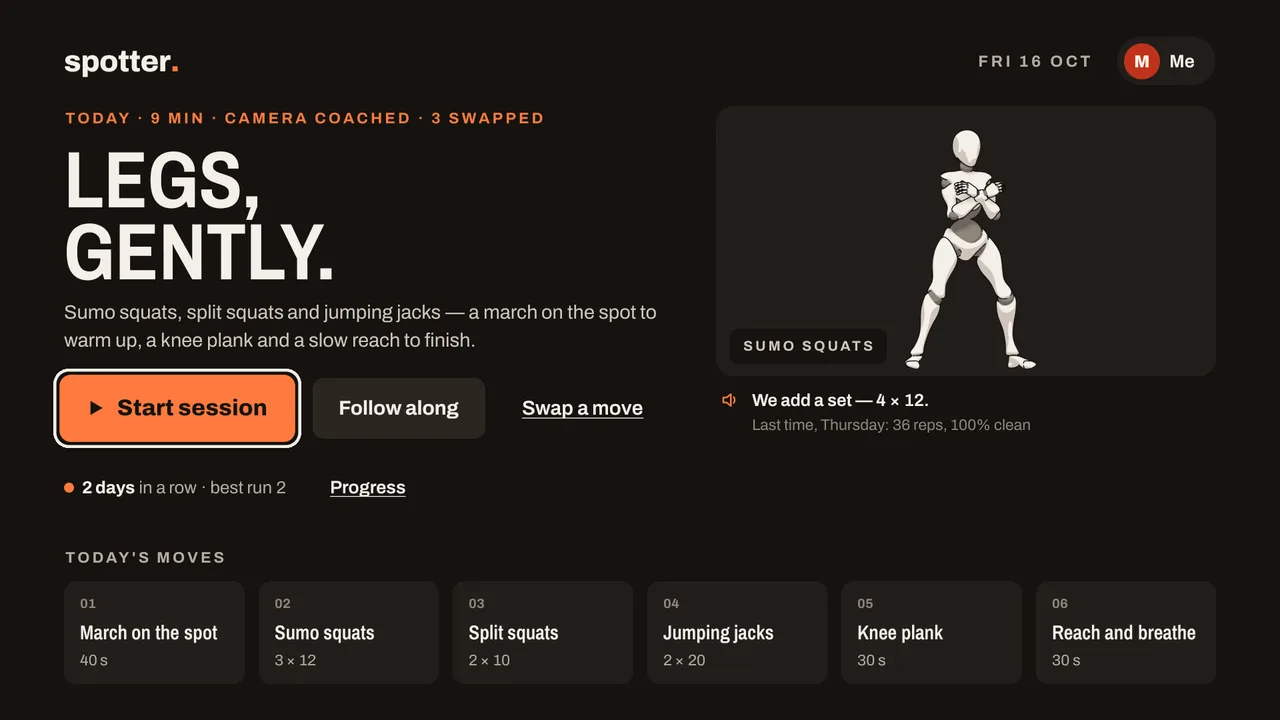
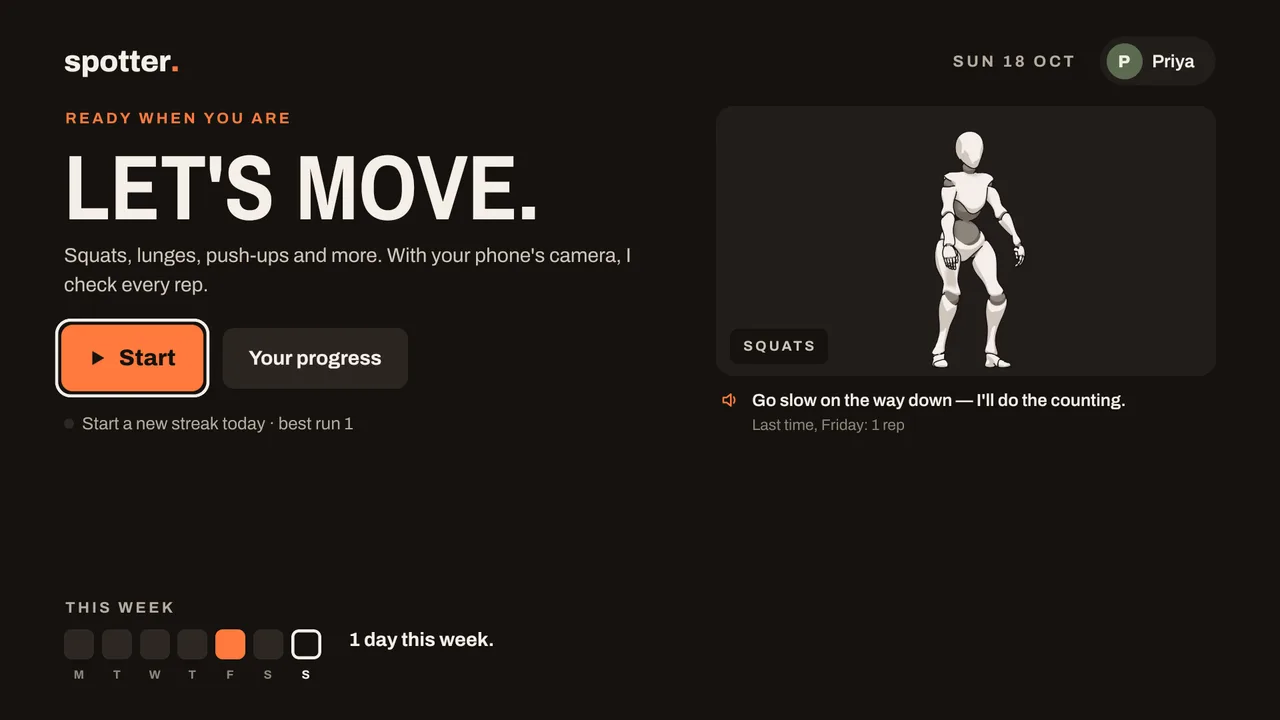
Website: pick one move at a time, no warm-ups, new screenshots

diff --git a/index.html b/index.html
@@ -46,7 +46,7 @@
         </p>
       </div>
       <div class="shot">
-        <img src="assets/img/tv-home.webp" width="1280" height="720" alt="Spotter's home screen on a Fire TV: today's session, Legs, gently, with a 3D trainer and the six moves of the day.">
+        <img src="assets/img/tv-home.webp" width="1280" height="720" alt="Spotter's home screen on a Fire TV: Let's move, a Start button, the 3D trainer doing squats and the week so far.">
       </div>
     </div>
 
@@ -60,15 +60,15 @@
             <h3 style="margin-top:10px">Follow along</h3>
             <p>A 3D trainer shows every move on the TV and a voice guides you through it, on a steady beat.</p>
             <ul>
-              <li>Short sessions with a warm-up and a cool-down</li>
-              <li>Swap any move for a gentler one</li>
+              <li>Pick any move: squats, lunges, push-ups, bridges, planks and more</li>
+              <li>A gentler version of most moves, marked "easier"</li>
               <li>Streaks and progress for everyone in the house</li>
             </ul>
           </div>
           <div class="card highlight">
             <span class="tag">With your phone's camera</span>
-            <h3 style="margin-top:10px">Smart coaching</h3>
-            <p>Your phone watches your form and the TV shows you, live, with your skeleton drawn on top. It starts by itself as soon as your phone can see you, and goes straight into the moves the camera checks.</p>
+            <h3 style="margin-top:10px">Coach me on camera</h3>
+            <p>Pick one of twelve moves the camera checks. Your phone watches your form and the TV shows you, live, with your skeleton drawn on top. It starts by itself as soon as your phone can see you.</p>
             <ul>
               <li>Every rep judged: clean, counted with a note, or not counted — and why</li>
               <li>The TV speaks the count and the fix: "push your knees out" — your phone just watches</li>
@@ -91,7 +91,7 @@
           <div class="card">
             <div class="step-num">1</div>
             <h3 style="margin-top:12px">Start on the TV</h3>
-            <p>Open Spotter on your Fire TV, pick who's training, and start a session with the camera.</p>
+            <p>Open Spotter on your Fire TV, press Start, choose Coach me on camera and pick a move.</p>
           </div>
           <div class="card">
             <div class="step-num">2</div>
@@ -101,12 +101,12 @@
           <div class="card">
             <div class="step-num">3</div>
             <h3 style="margin-top:12px">Set it down and train</h3>
-            <p>Prop the phone up and step back until the TV can see you. It counts down from 5 and starts — the coach takes it from there.</p>
+            <p>Prop the phone up and step back until the TV can see you. It counts down from 5 and starts. When you're done, pick another move; the phone stays linked.</p>
           </div>
         </div>
         <div class="figure-row">
           <figure class="shot"><img src="assets/img/tv-pair.webp" width="1280" height="720" loading="lazy" alt="The pairing screen: a QR code, the code to type, and a check that head, hips, knees and feet are in view."></figure>
-          <figure class="shot"><img src="assets/img/tv-follow.webp" width="1280" height="720" loading="lazy" alt="Follow along: the 3D trainer marches on the spot while a timer counts down."></figure>
+          <figure class="shot"><img src="assets/img/tv-pick.webp" width="1280" height="720" loading="lazy" alt="Pick a move: squats, lunges, jumping jacks, push-ups, glutes and planks in sections, with the 3D trainer showing the one in focus."></figure>
         </div>
       </div>
     </section>
@@ -133,7 +133,7 @@
         <div class="grid grid-3">
           <div class="card"><h3>On your phone</h3><p>Body tracking runs in your phone's browser. Your phone sends the TV your rep counts and the positions of a few body points.</p></div>
           <div class="card"><h3>Phone to TV</h3><p>The live picture goes straight from your phone to your TV over your home Wi-Fi. It is never sent to or stored on our servers.</p></div>
-          <div class="card"><h3>On your TV</h3><p>Profiles, history and swaps are kept on the TV. No account, no sign-in. <a href="privacy.html">Read the privacy policy</a>.</p></div>
+          <div class="card"><h3>On your TV</h3><p>Profiles and history are kept on the TV. No account, no sign-in. <a href="privacy.html">Read the privacy policy</a>.</p></div>
         </div>
       </div>
     </section>

diff --git a/privacy.html b/privacy.html
@@ -24,14 +24,14 @@
     <article class="legal">
       <p class="kicker">Privacy policy</p>
       <h1>Your data, plainly</h1>
-      <p class="updated">Last updated: 16 October 2026</p>
+      <p class="updated">Last updated: 18 October 2026</p>
 
       <div class="summary">
         <p><strong>In short:</strong></p>
         <ul>
           <li>Your camera picture goes only from your phone to your TV, over your home network. It never reaches our servers, and we never record it.</li>
           <li>Body tracking runs on your phone. To the TV it sends your rep results and the positions of a few body points, not pictures.</li>
-          <li>There is no account. Profiles, history and swaps are kept on your TV.</li>
+          <li>There is no account. Profiles and history are kept on your TV.</li>
           <li>To link your phone to your TV, our servers keep a short pairing code for two hours.</li>
         </ul>
       </div>
@@ -40,7 +40,7 @@
       <p>Spotter is a fitness app for Amazon Fire TV with a companion camera page that opens in your phone's browser. It was built for the Amazon Developer Hackathon 2026, and its source code is public on <a href="https://github.com/Mallikarjuntr/spotter-tv-app">GitHub</a>. In this policy, "Spotter", "we" and "us" mean the people who make it.</p>
 
       <h2>The camera on your phone</h2>
-      <p>When you use Smart coaching, the camera page on your phone uses your camera to see how you move. Body tracking (Google's MediaPipe Pose) runs inside your phone's browser.</p>
+      <p>When you use Coach me on camera, the camera page on your phone uses your camera to see how you move. Body tracking (Google's MediaPipe Pose) runs inside your phone's browser.</p>
       <ul>
         <li><strong>The live picture</strong> is sent directly from your phone to your Fire TV over your local network, encrypted, using WebRTC. It does not pass through or get stored on our servers. To set up that direct link, your phone and TV contact a public STUN server run by Google, which sees their network addresses but not your picture. There is no relay: if your phone and TV can't connect directly, no picture is sent.</li>
         <li><strong>Body points</strong>: the positions of 13 body points (such as shoulders, hips, knees and ankles) are sent to your TV so it can draw your skeleton. They go over the same direct link, or through our live messaging service (below) when the direct link isn't available.</li>
@@ -58,7 +58,7 @@
       <p>We do not sell your data, share it with advertisers, or use it to build a profile of you.</p>
 
       <h2>What stays on your TV</h2>
-      <p>The names you add under "Who's training?", each person's workout history (date, reps, minutes and clean-form percentage), streaks and swapped moves are stored only on your Fire TV. They are not sent to us. To delete them, clear Spotter's data in your Fire TV settings or uninstall the app.</p>
+      <p>The names you add under "Who's training?", each person's workout history (date, move, reps, minutes and clean-form percentage), streaks, and any moves swapped in earlier versions are stored only on your Fire TV. They are not sent to us. To delete them, clear Spotter's data in your Fire TV settings or uninstall the app.</p>
 
       <h2>Voice</h2>
       <p>The coach's voice is pre-recorded and plays on your TV. Spotter does not use a microphone.</p>
